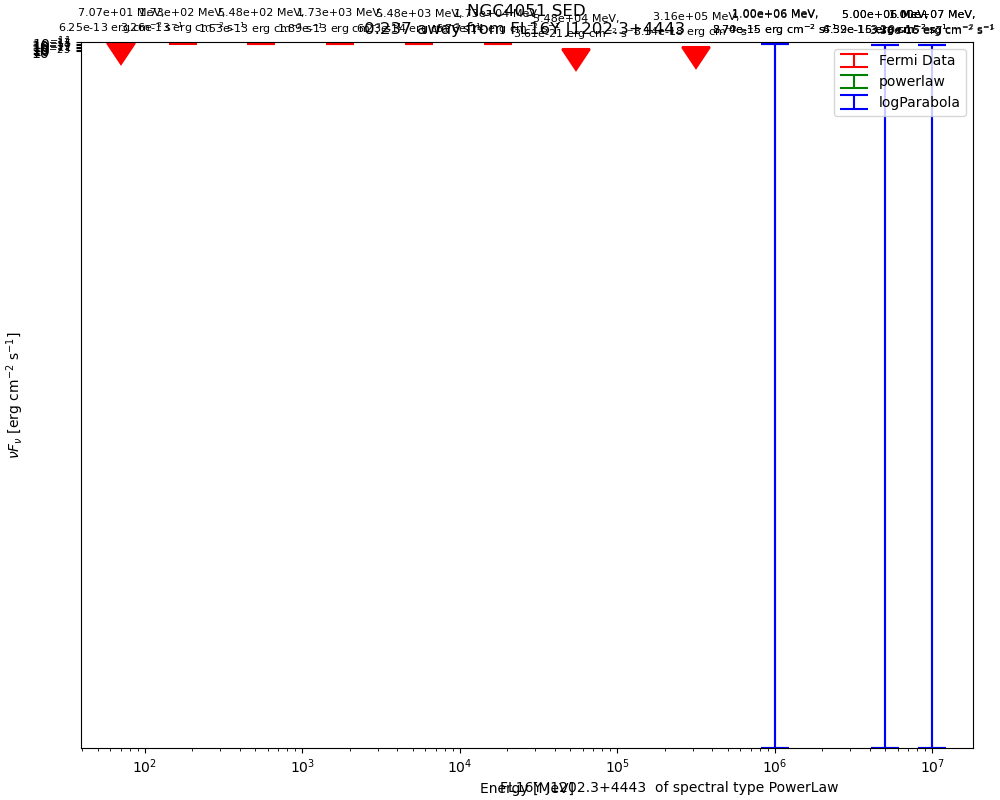
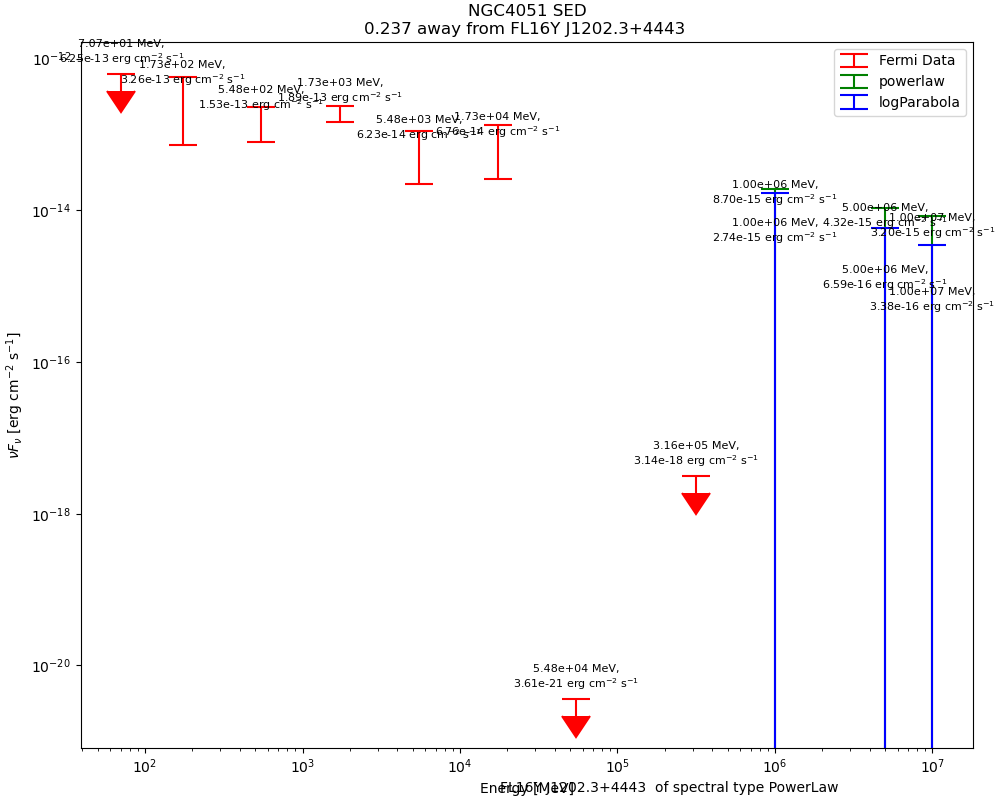
no bounds

diff --git a/fermi/sourcesfermi.py b/fermi/sourcesfermi.py
@@ -163,8 +163,8 @@ for i, s in enumerate(sourceName):
                 unc_nufnu_lower[i][j] = 0.4 * nufnu[i][j]
     
         plt.figure(figsize=(10,8),layout='constrained')
-        plt.ylim(nuFnu_LP[-1]-nuFnu_LP_err[-1],
-                np.max(nufnu[0]+unc_nufnu_upper[0]))    
+        #plt.ylim(nuFnu_LP[-1]-nuFnu_LP_err[-1],
+        #        np.max(nufnu[0]+unc_nufnu_upper[0]))    
 
         plt.errorbar(e_mids,nufnu[i],
                 yerr=[unc_nufnu_lower[i],unc_nufnu_upper[i]],
